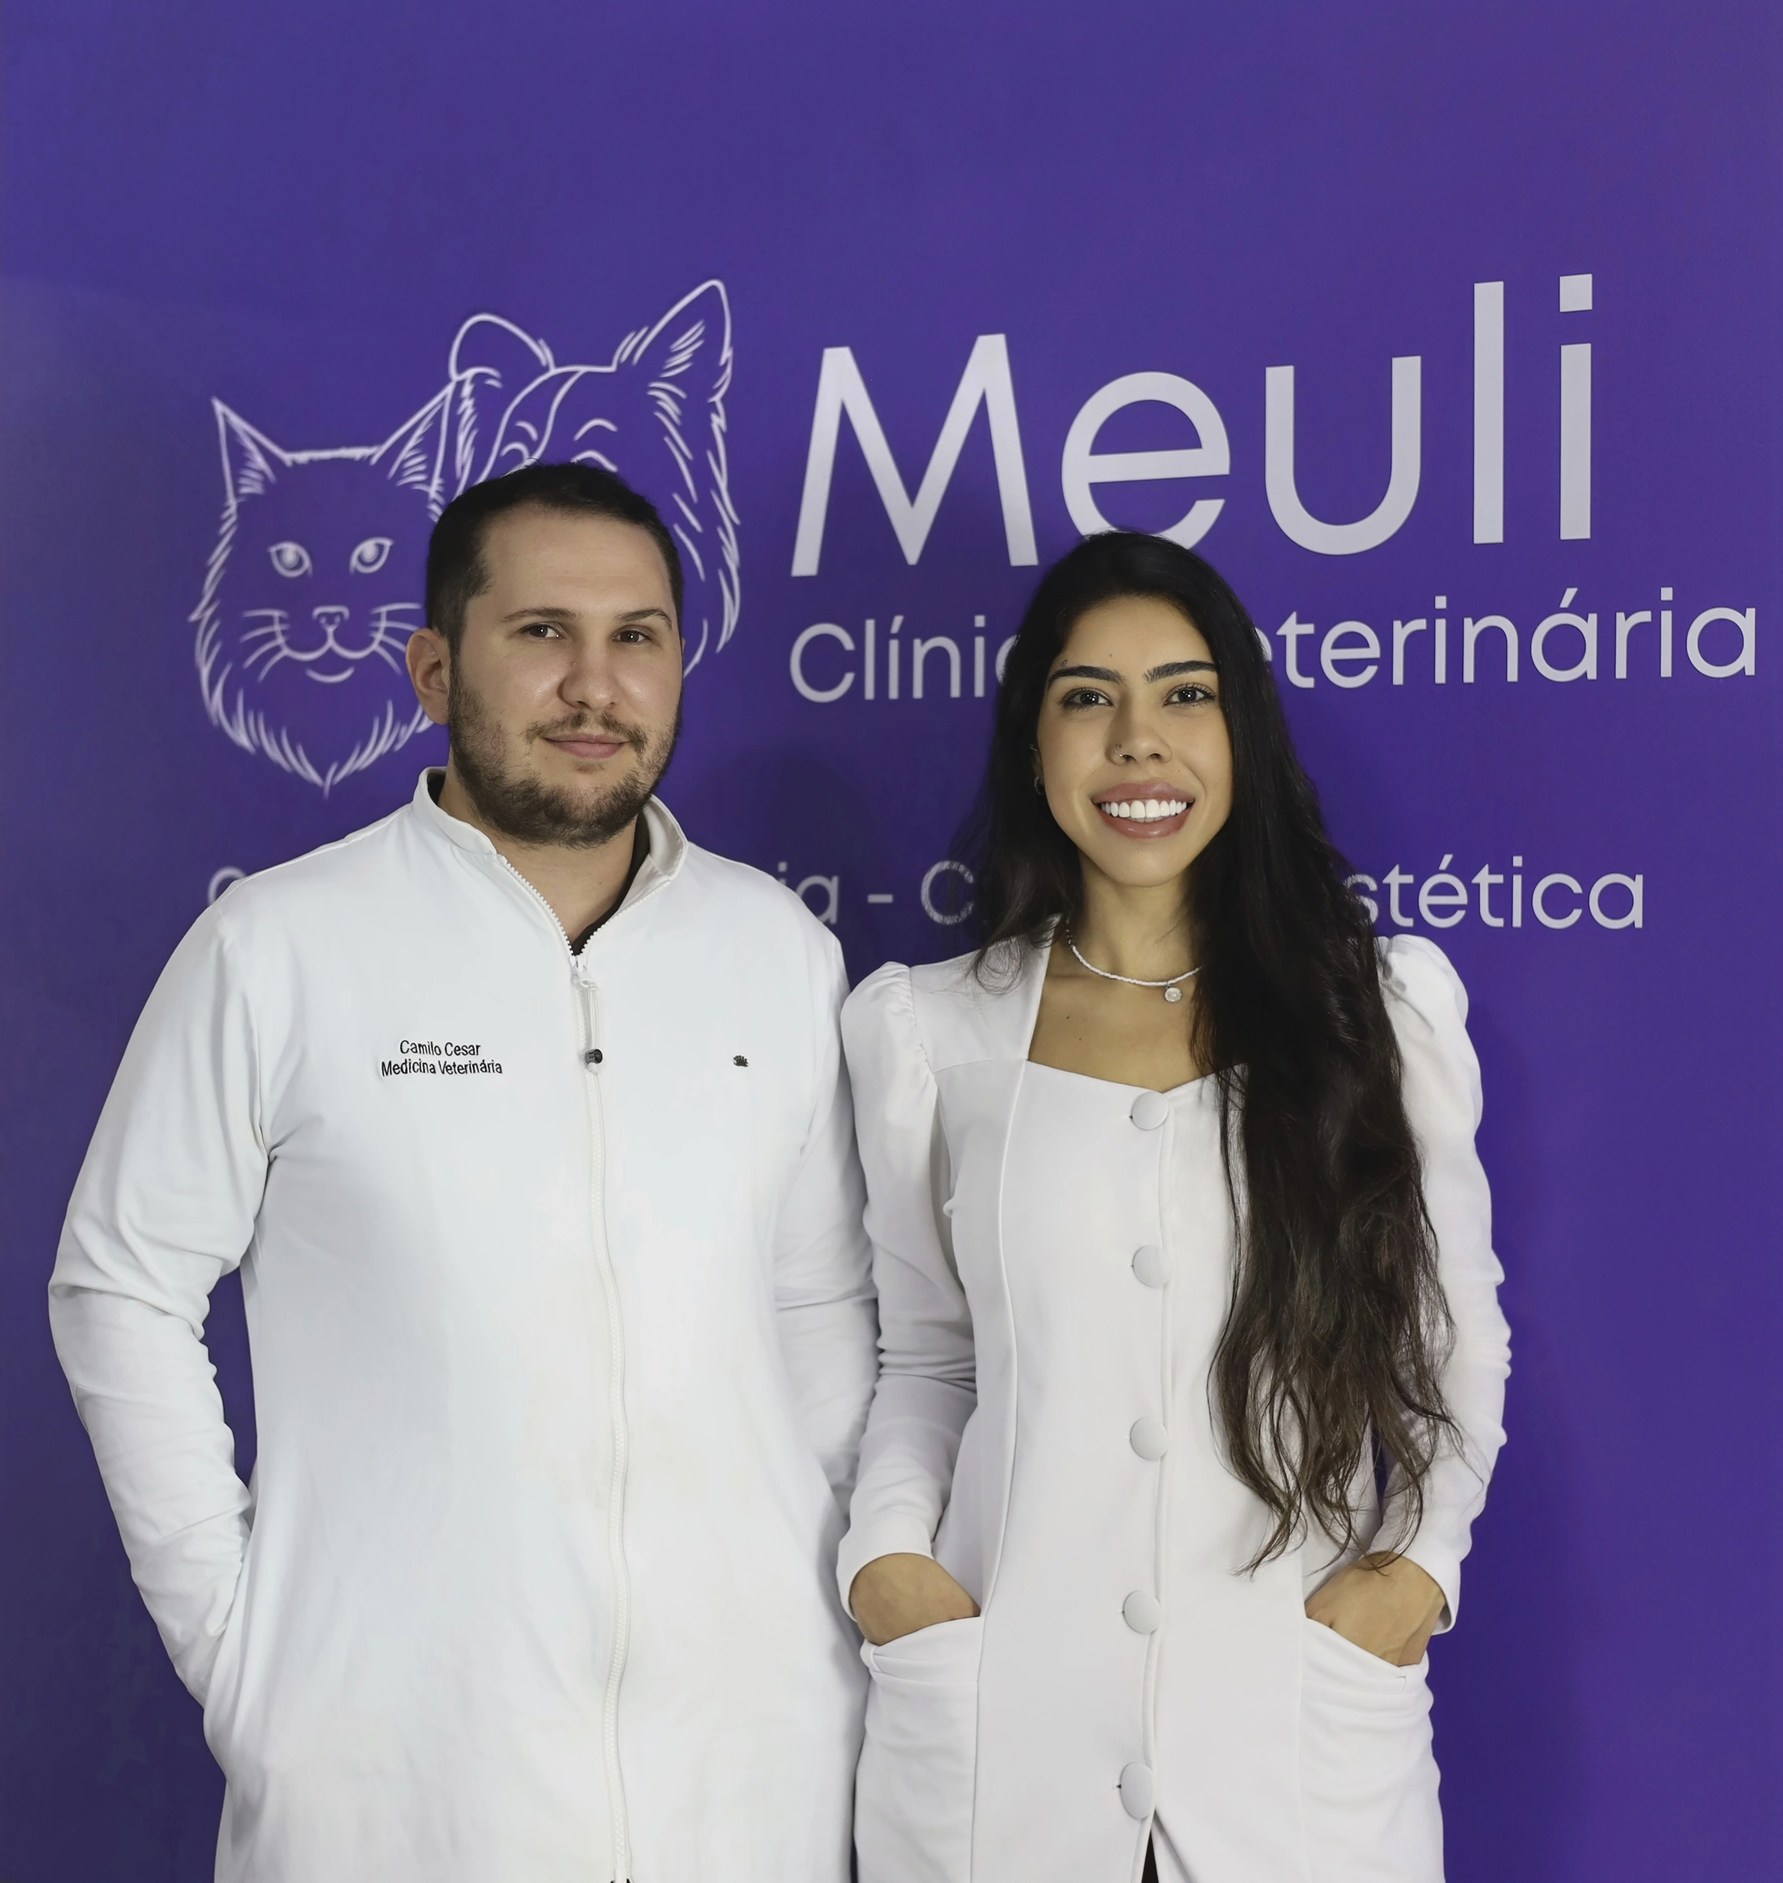
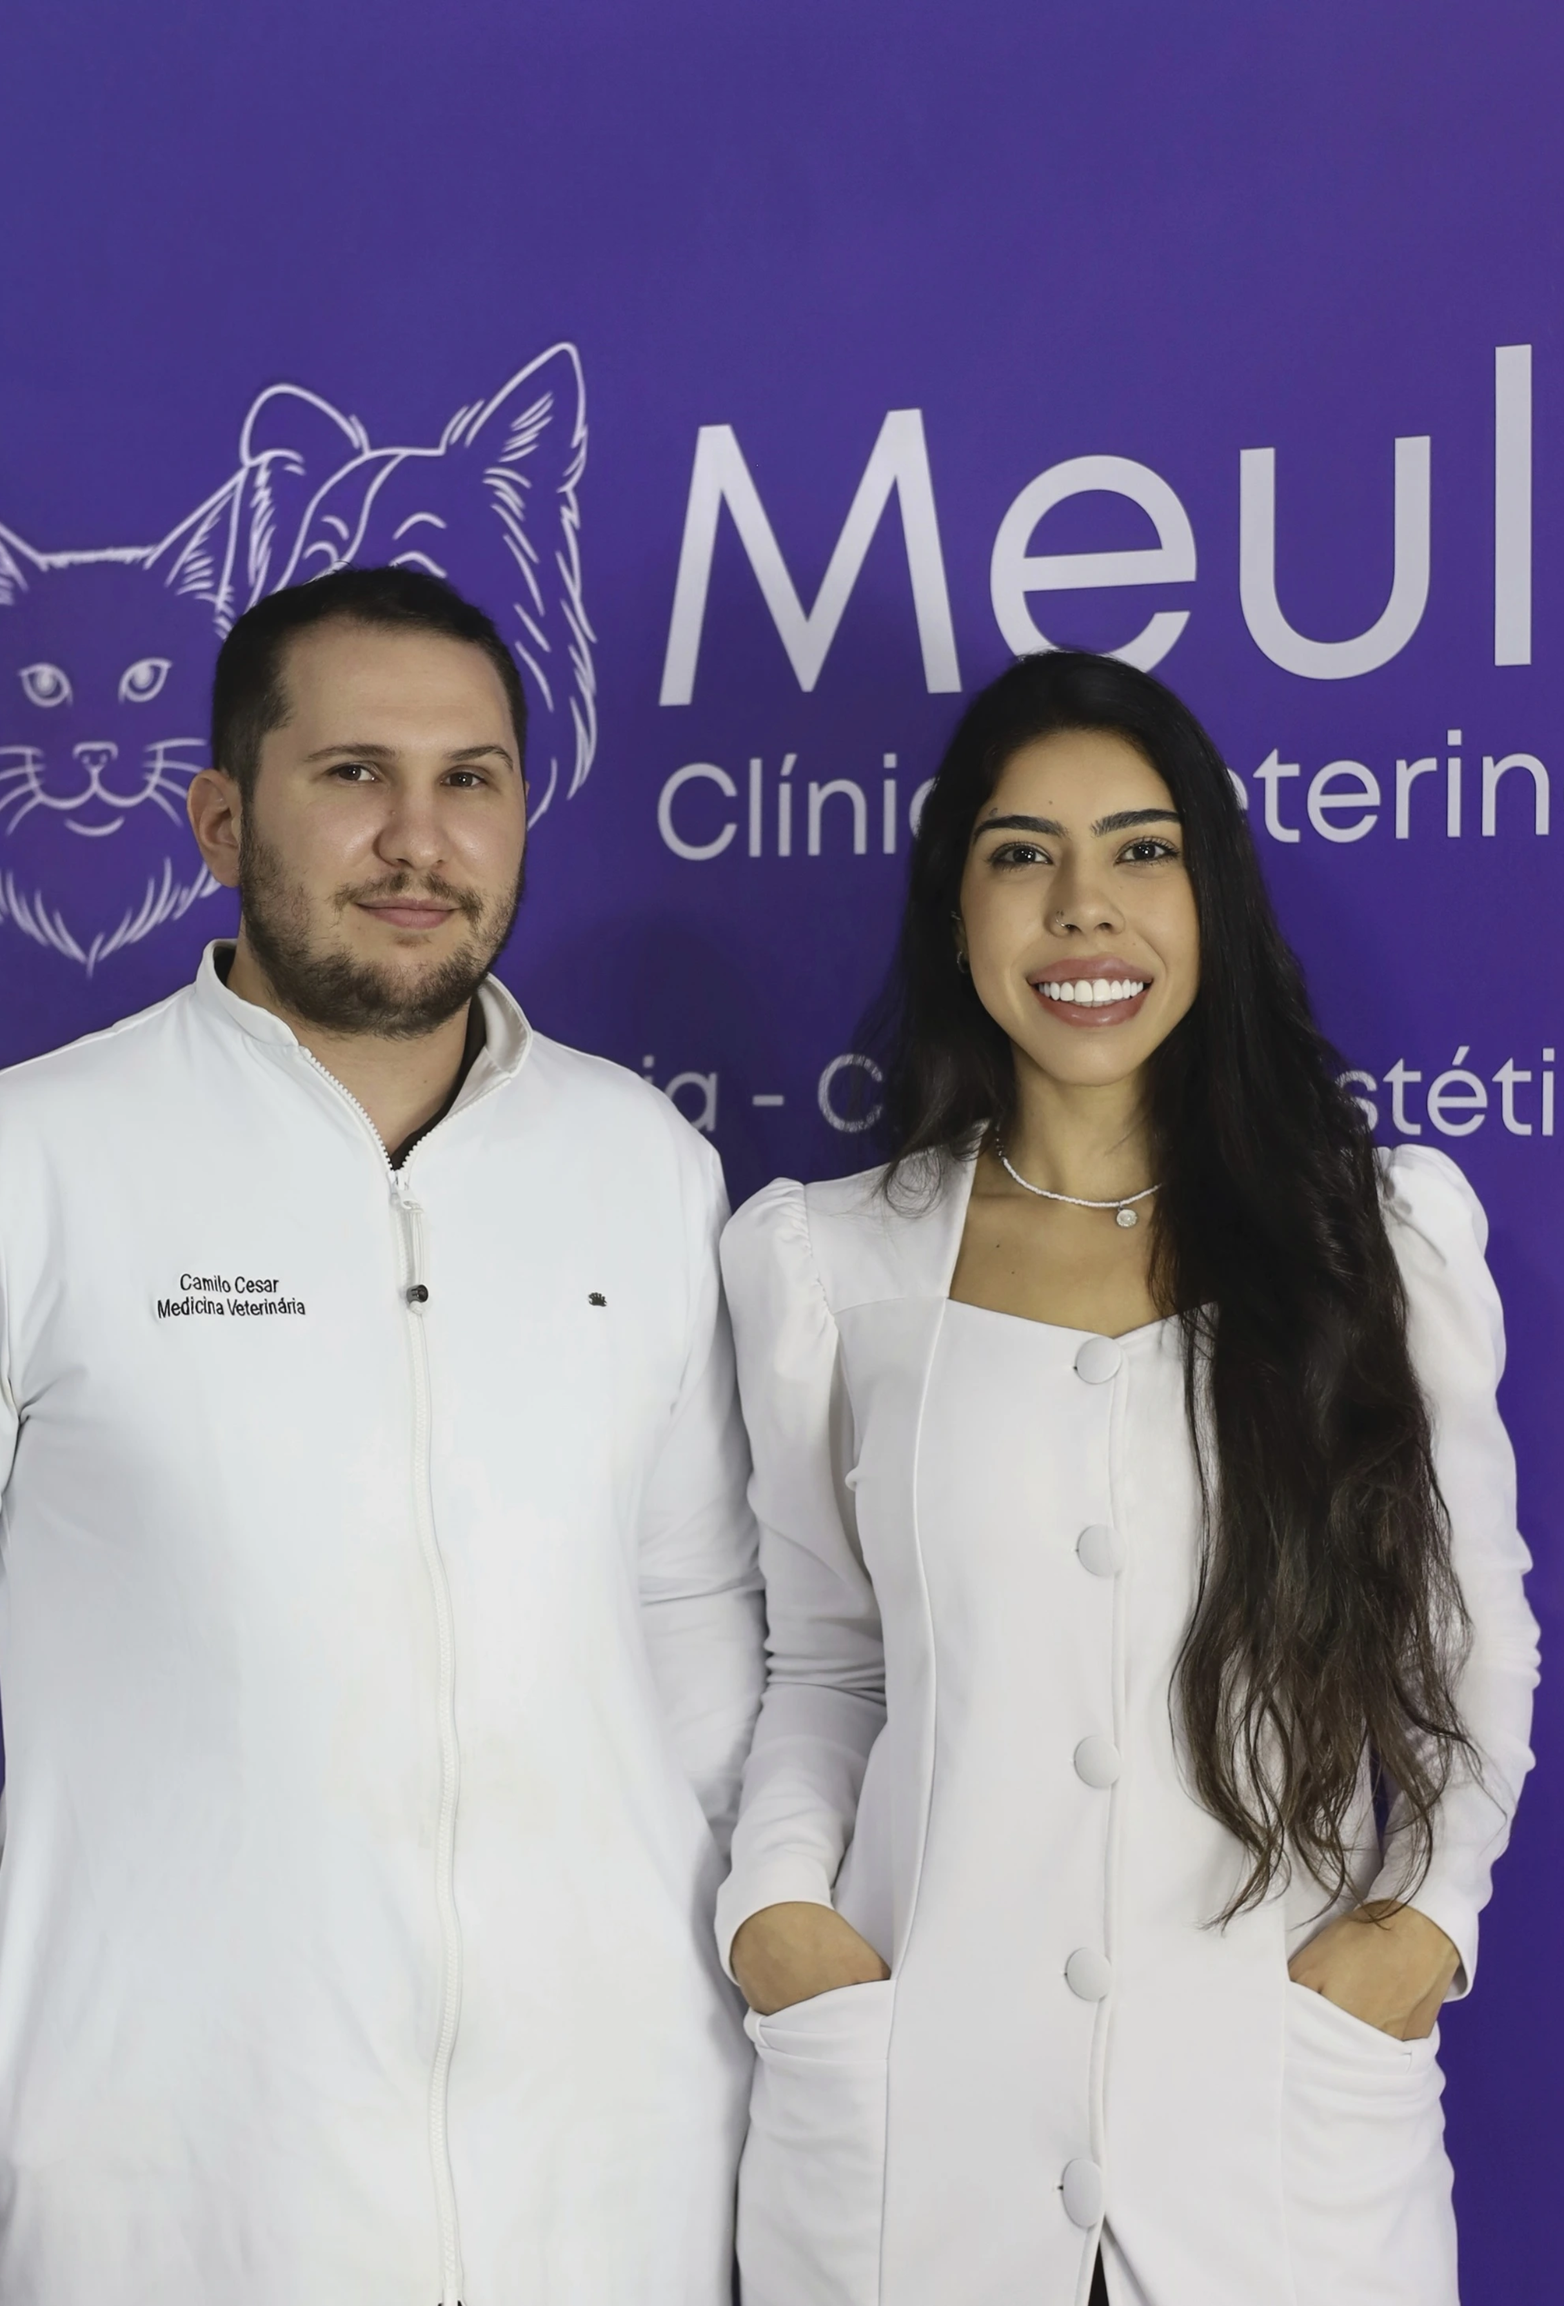
feat (nest): correção img sobre

diff --git a/src/components/About/About.module.css b/src/components/About/About.module.css
@@ -86,12 +86,13 @@
   .images-stack .media-frame-tall {
     flex: 1 1 calc(50% - 0.5rem);
     max-width: 205px;
-    aspect-ratio: 0.78 / 1;
-    overflow: hidden;
+    aspect-ratio: auto;
   }
 
   .images-stack .media-frame-tall img {
-    height: 100%;
+    height: auto;
+    min-height: 0;
+    object-fit: contain;
   }
 }
 
